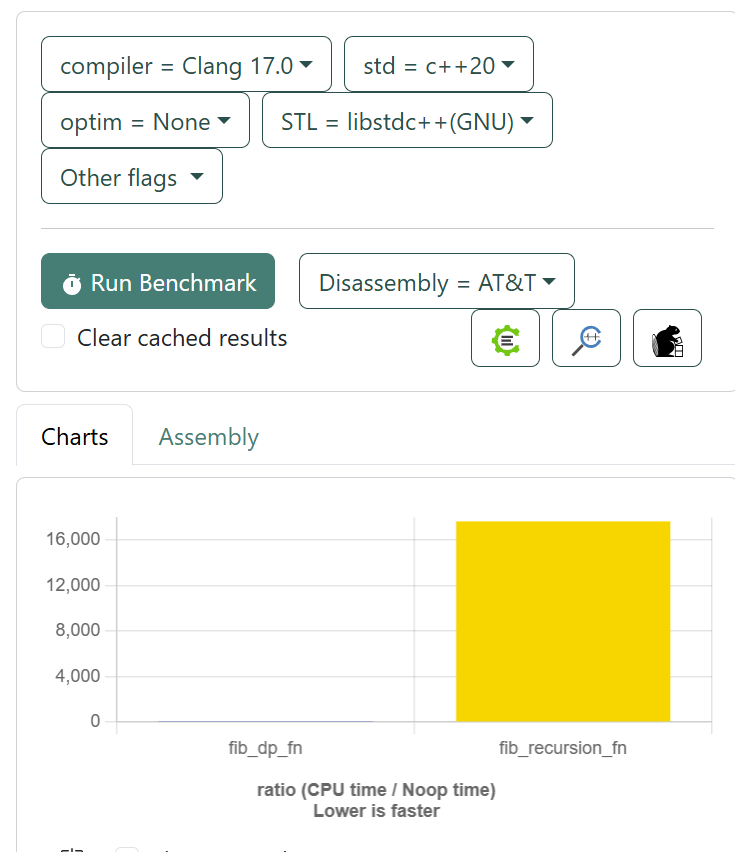
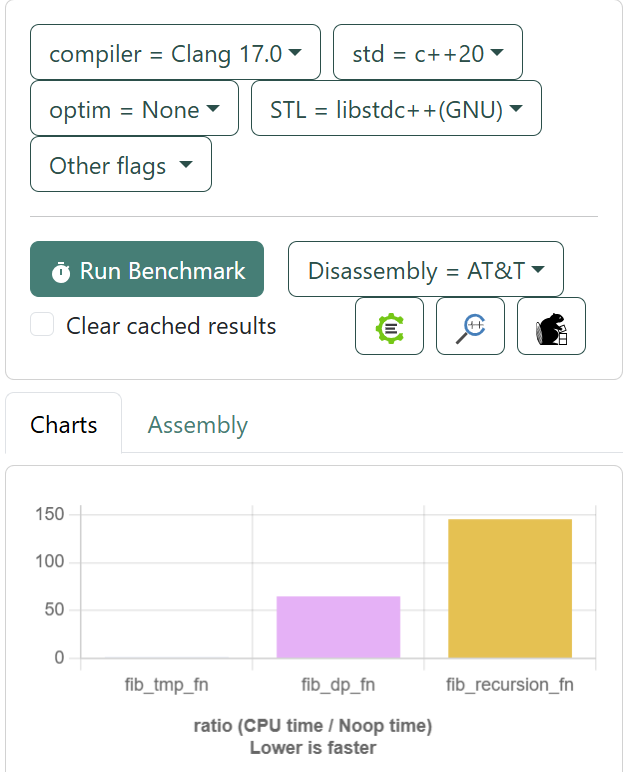
xx

diff --git a/fib_benchmark.cpp b/fib_benchmark.cpp
@@ -1,9 +1,22 @@
-//https://quick-bench.com/q/ya8Qv306mJNep9bhBf0hvtxFJQw
+//https://quick-bench.com/q/JNMxVIK1jhNJkcxtjd9Pz1IqVyI
 
 #include <iostream>
 #include <vector>
 
 using namespace std;
+
+template <int n>
+struct fib_tmp{
+  static const int value=fib_tmp<n-1>::value +fib_tmp<n-2>::value;
+};
+template <>
+struct fib_tmp<1>{
+    static const int value=1;
+};
+template <>
+struct fib_tmp<0>{
+    static const int value=0;
+};
 
 int fib_dp(int n){
     vector<int> dp(n+1,0);
@@ -20,10 +33,20 @@ int fib_recursion(int n){
     return fib_recursion(n-1)+fib_recursion(n-2);
 }
 
+
+static void fib_tmp_fn(benchmark::State& state) {
+  // Code inside this loop is measured repeatedly
+  for (auto _ : state) {
+    int n=fib_tmp<10>::value;
+  }
+}
+// Register the function as a benchmark
+BENCHMARK(fib_tmp_fn);
+
 static void fib_dp_fn(benchmark::State& state) {
   // Code inside this loop is measured repeatedly
   for (auto _ : state) {
-    int n=fib_dp(20);
+    int n=fib_dp(10);
   }
 }
 // Register the function as a benchmark
@@ -33,7 +56,7 @@ static void fib_recursion_fn(benchmark::State& state) {
   // Code before the loop is not measured
 
   for (auto _ : state) {
-    int n=fib_recursion(20);
+    int n=fib_recursion(10);
   }
 }
 BENCHMARK(fib_recursion_fn);

diff --git a/fibonacci.cpp b/fibonacci.cpp
@@ -18,8 +18,21 @@ int fib_recursion(int n){
     return fib_recursion(n-1)+fib_recursion(n-2);
 }
 
-int main(){
 
+template <int n>
+struct fib_tmp{
+  static const int value=fib_tmp<n-1>::value +fib_tmp<n-2>::value;
+};
+template <>
+struct fib_tmp<1>{
+    static const int value=1;
+};
+template <>
+struct fib_tmp<0>{
+    static const int value=0;
+};
+int main(){
+    cout<<fib_tmp<20>::value<<endl;
     cout<<fib_dp(20)<<endl;
     cout<<fib_recursion(20)<<endl;
 }
